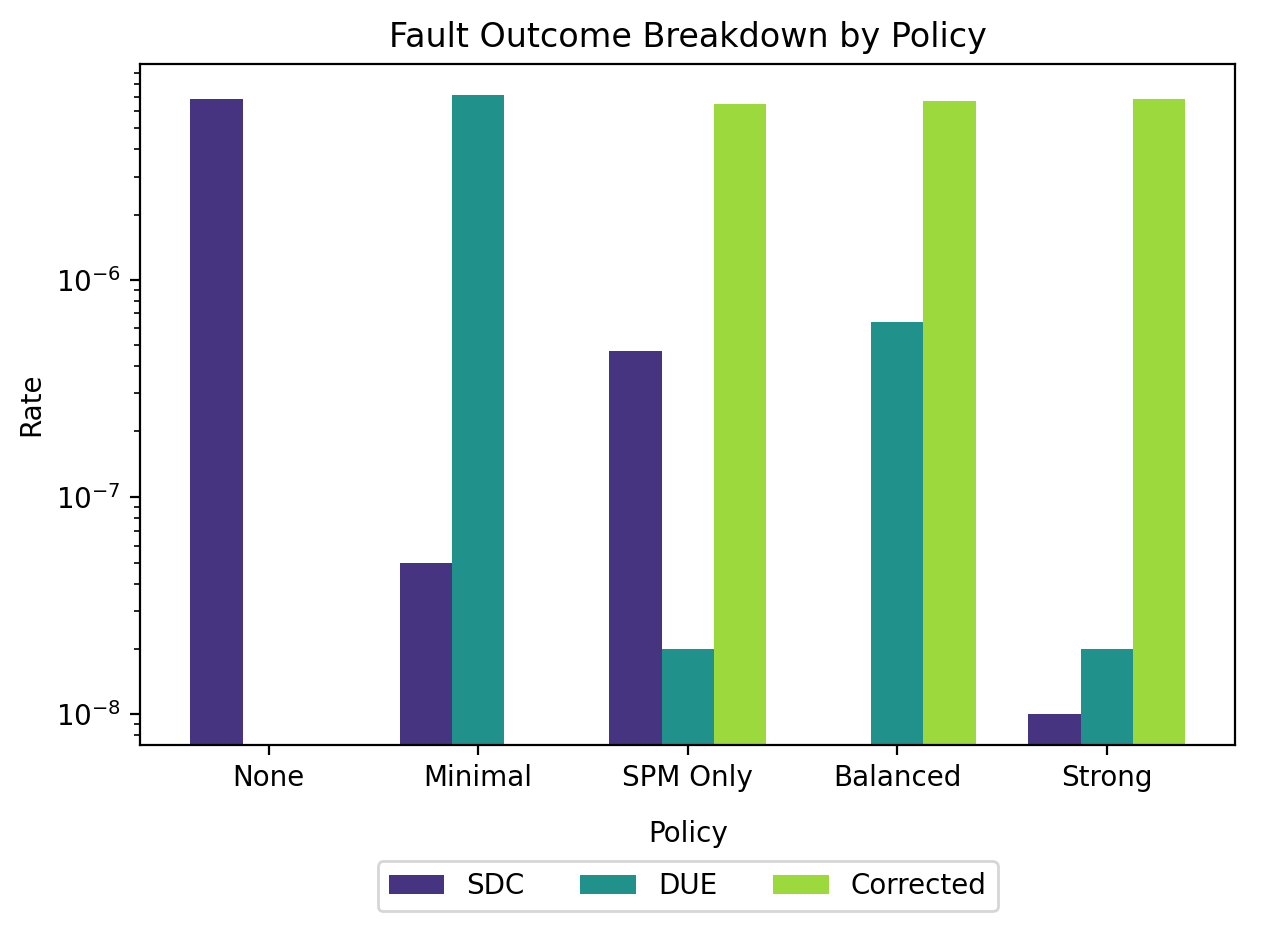
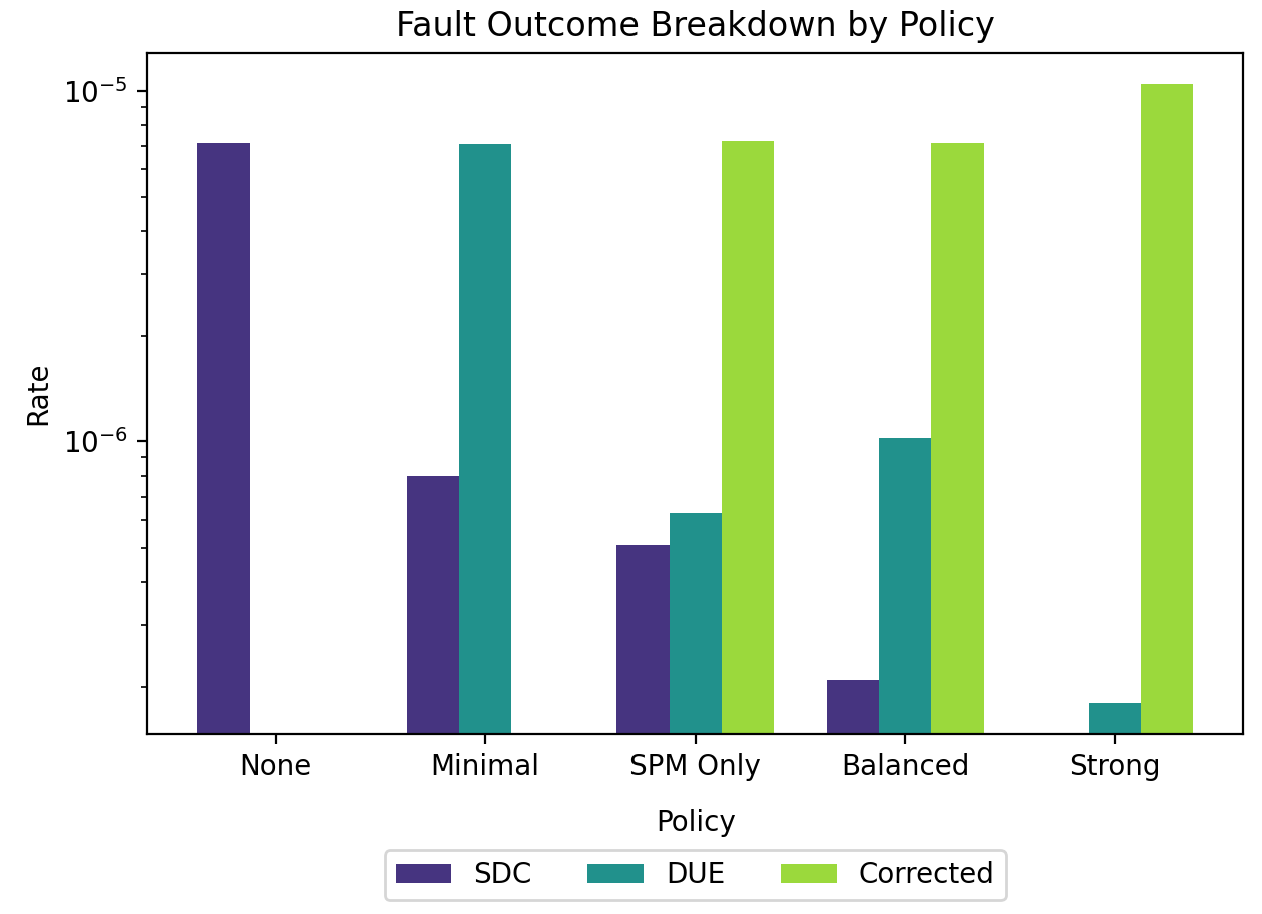
Updated figures

Changed region(s): [[0.0, 0.0, 0.9889, 1.0]]

diff --git a/README.md b/README.md
@@ -41,7 +41,9 @@ plots/
 ├── plot_results.py     # Generates evaluation figures
 
 config.py               # Predefined PIM systems and policies
-main.py                 # Entry point for running experiments
+experiments.py          # Given a configuration, runs experiments for analytical + monte carlo simulations
+interactive_runner.py   # Interactive script to let a user define a pim ECC configuration + run experiments
+main.py                 # Entry point for running general experiments
 ```
 
 
@@ -136,6 +138,9 @@ For simple pim device with 128B register file, 8192B scratchpad \
 
 <br>
 <img src="figures/five_policy_breakdown.png" width=400>
+
+<br>
+<img src="figures/sdc_five_policies.png" width=400>
 
 <br>
 <img src="figures/rel_vs_cost.png" width=400>